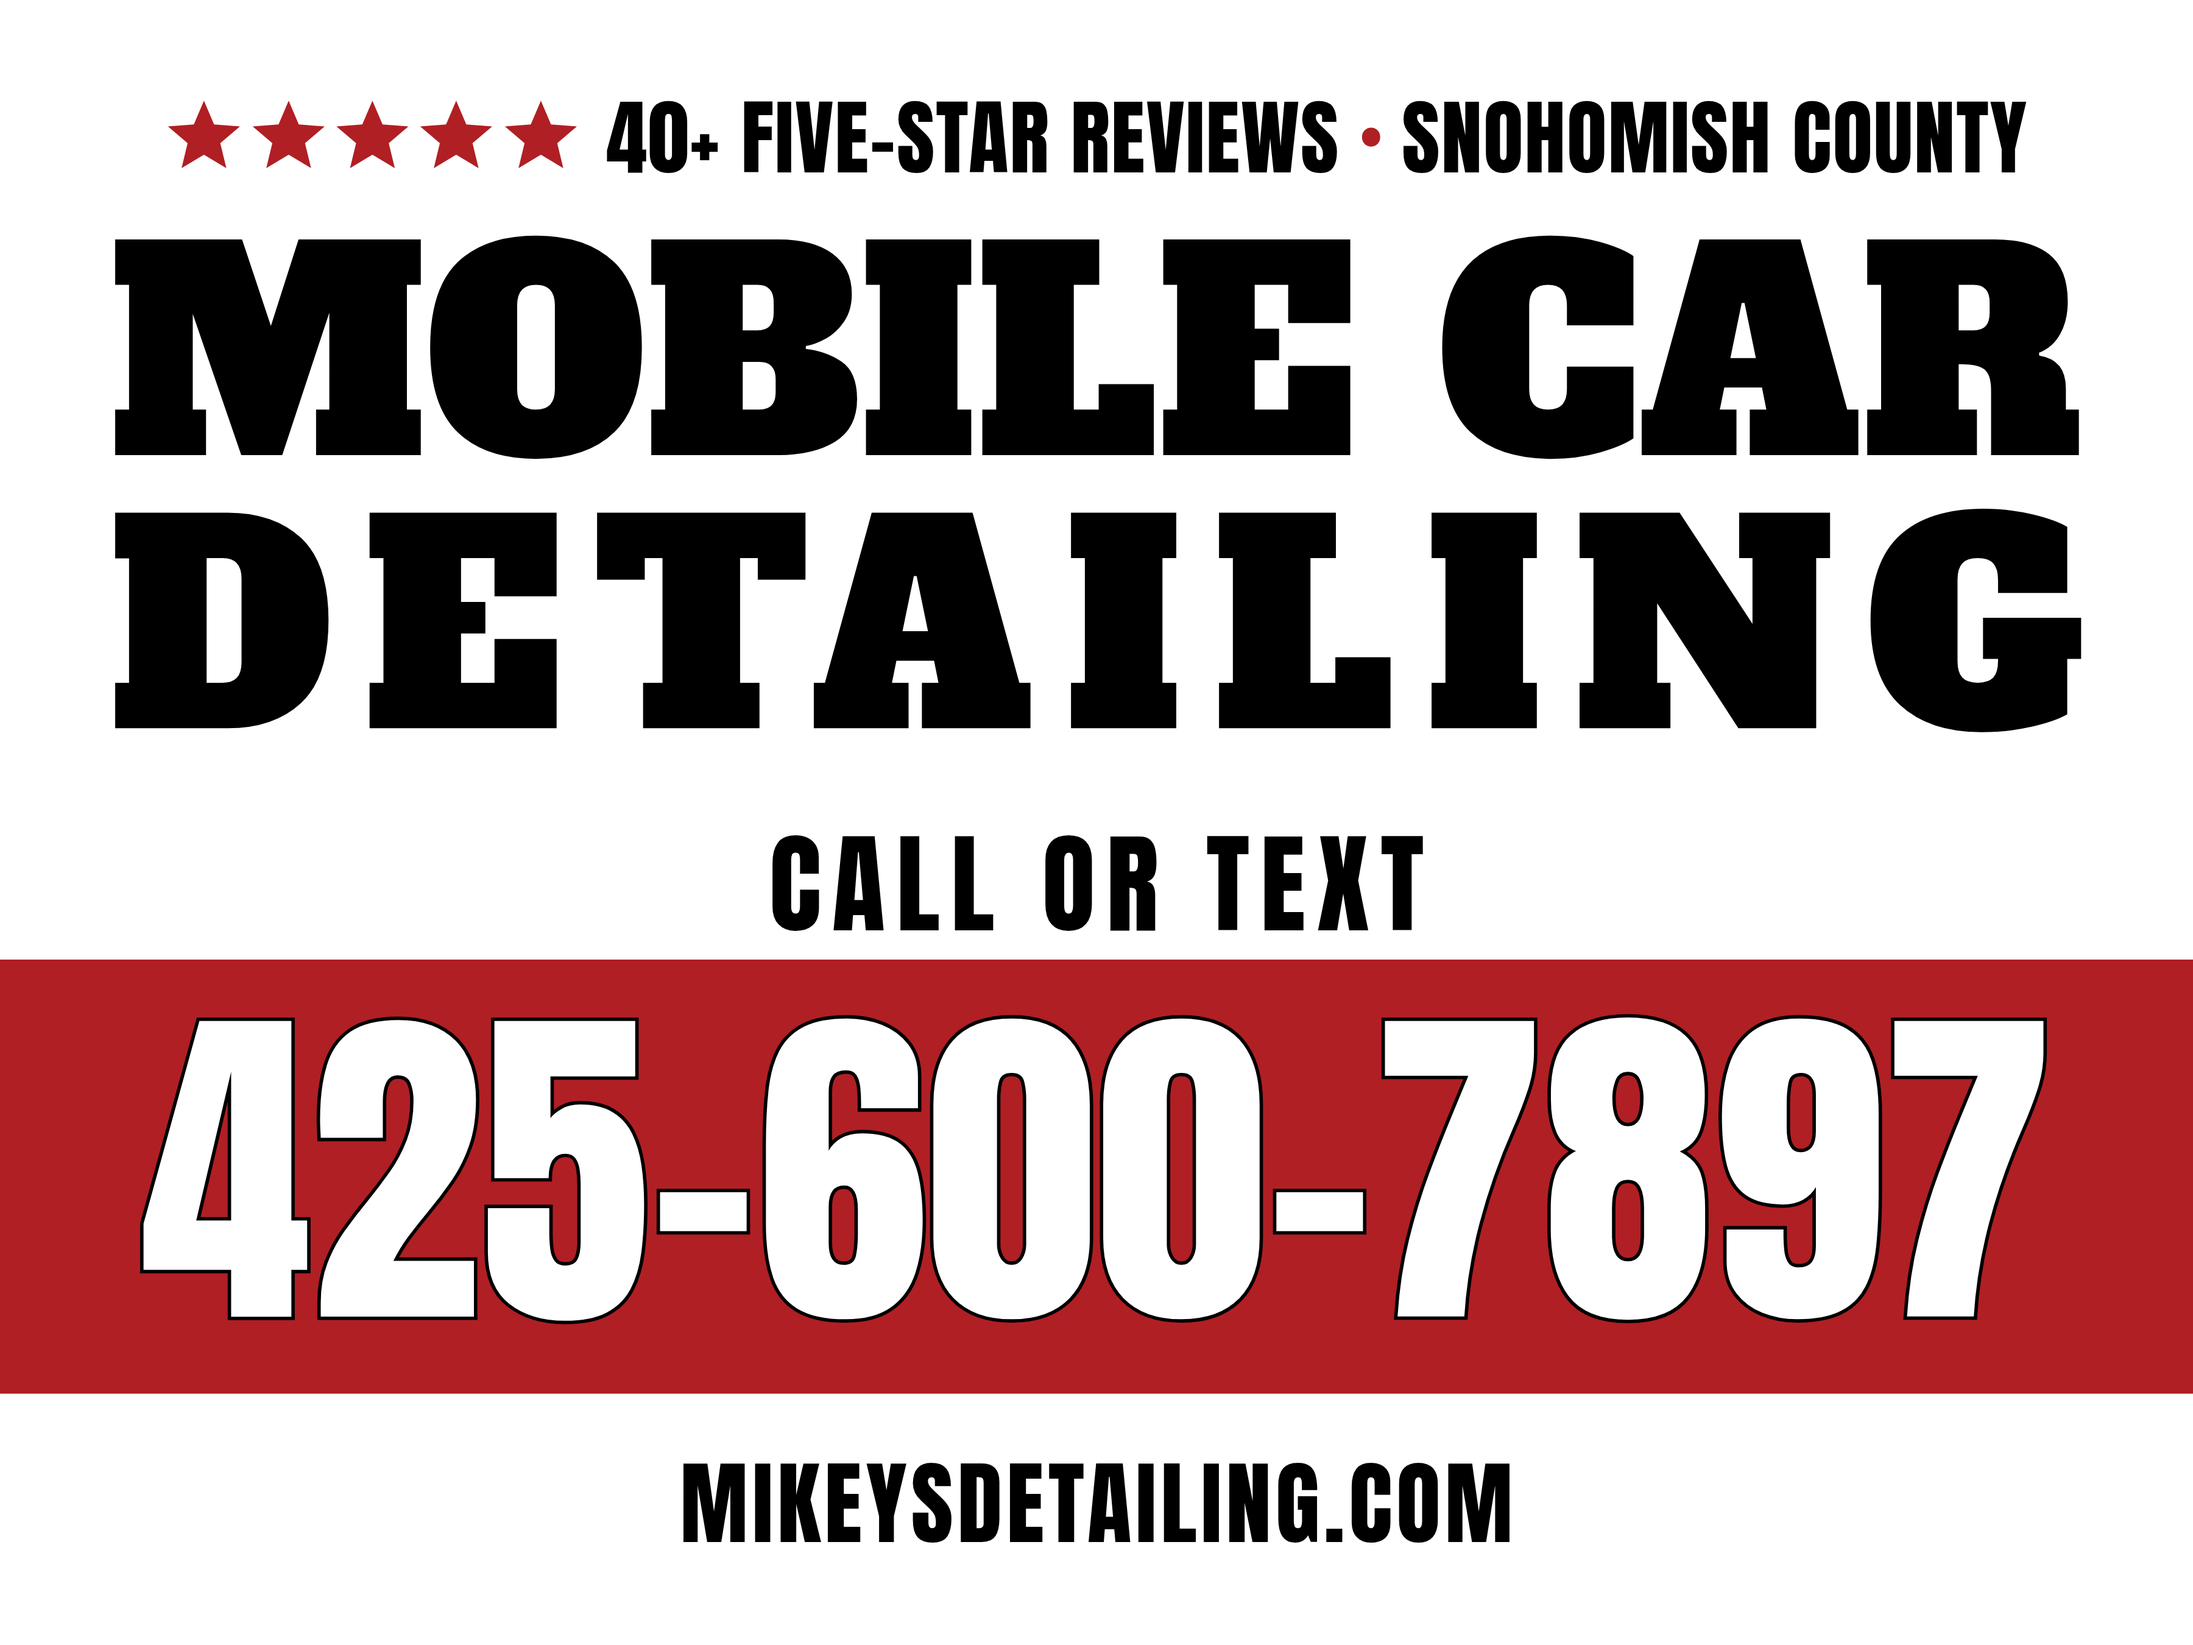
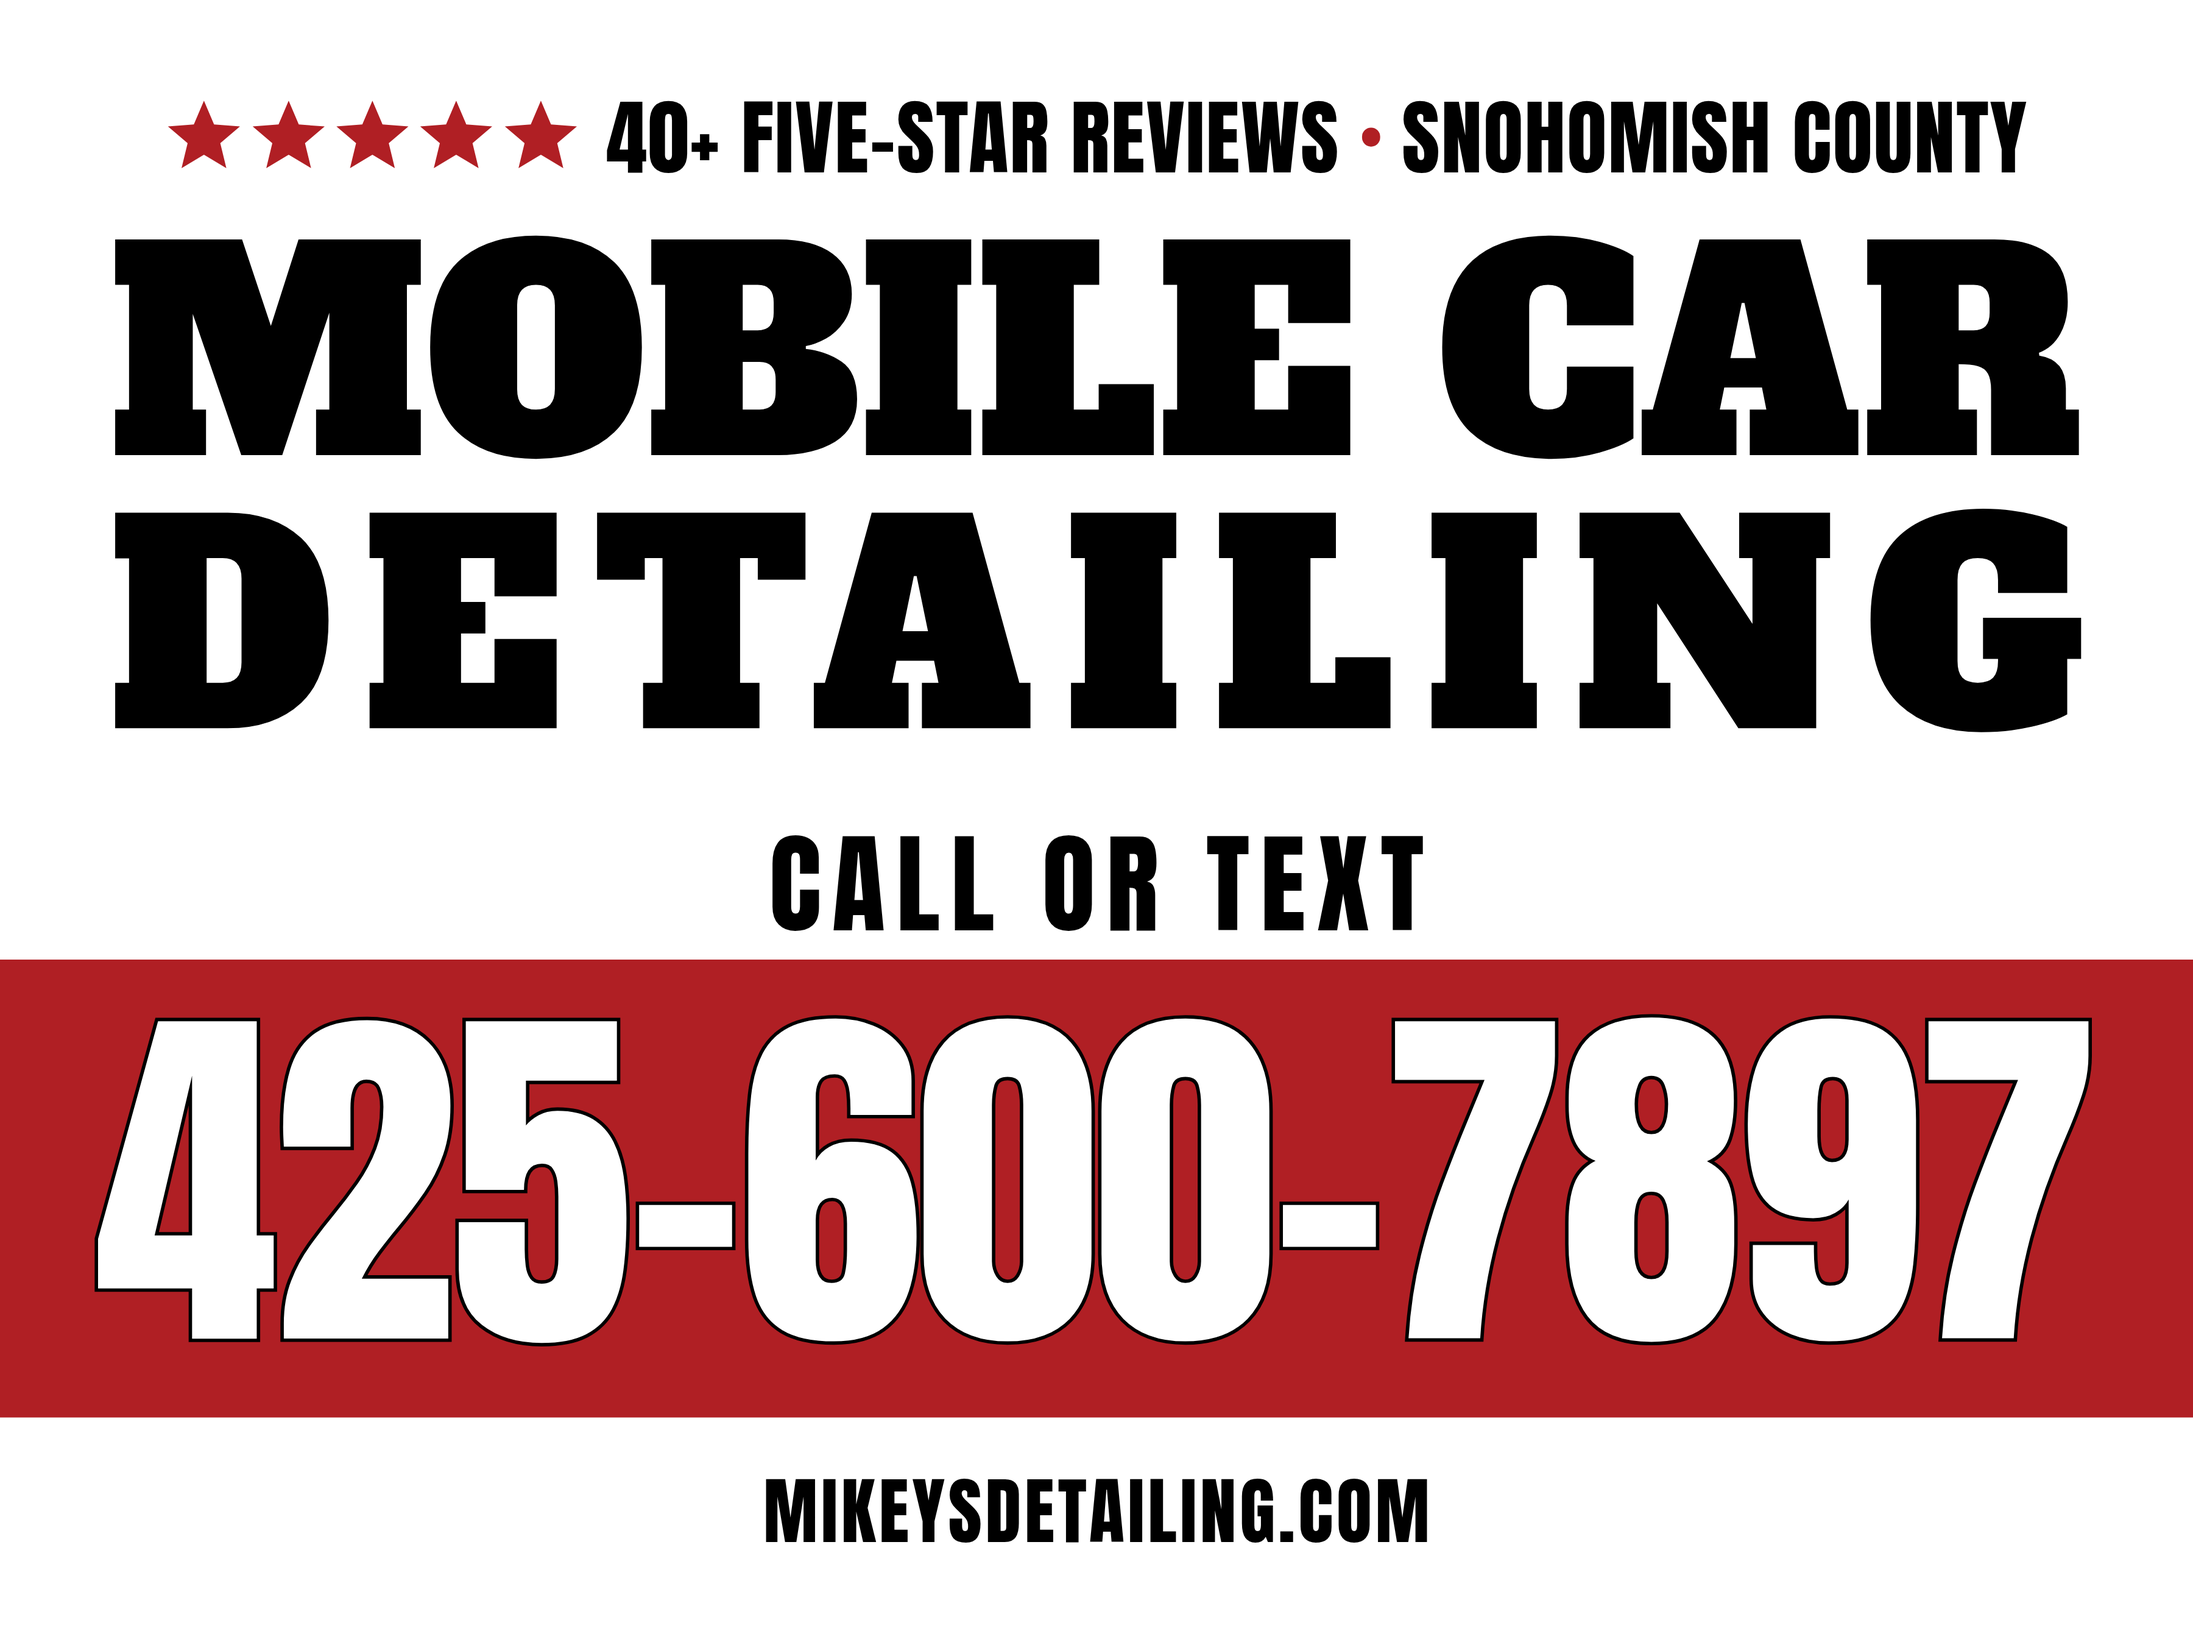
Enlarge yard sign phone number to the trim limit
The number is the sign's main response mechanism, so it now runs as wide
as the sign physically allows: 21.78in of ink, up from 20.92in, and from
20.85in on the previous sign. Digits are 7.3% taller.

Two changes get there. The number now extends to 1in from each edge,
which is the printer's own stated trim tolerance, and it carries slight
negative tracking that buys glyph height back out of the inter-digit
gaps. Verified against the rendered PDF: every mark that must survive
trimming clears all four edges by at least 1.04in.

The URL steps down to 0.8in so it reads as a secondary path rather than
competing with the number. It does not constrain the number's size,
which is set by the sign's width.

Claude-Session: https://claude.ai/code/session_013ASNFMMtqrVHcyBqv9PXkg

diff --git a/print/yard-sign/sign.html b/print/yard-sign/sign.html
@@ -57,9 +57,9 @@ body{background:#fff;-webkit-print-color-adjust:exact;print-color-adjust:exact;}
 
 /* ---- website ---- */
 .site{
-  margin-top:.70in;
+  margin-top:.64in;
   font-family:Anton,sans-serif;color:var(--ink);
-  font-size:1.00in;line-height:1;letter-spacing:.045em;text-indent:.045em;
+  font-size:.80in;line-height:1;letter-spacing:.045em;text-indent:.045em;
 }
 </style></head>
 <body>
@@ -147,8 +147,15 @@ async function fit(){
   // measured text; leave room for that half on each side.
   const phone = document.getElementById('phone');
   const STROKE = .075 * DPI;
-  const PHONE_W = 21.0 * DPI;
-  phone.style.fontSize = sizeFor('425-600-7897','Anton', PHONE_W - STROKE) + 'px';
+  const PHONE_W = 22.0 * DPI;       // 1in clear of each edge — the trim limit
+  const PHONE_T = -0.012;           // em; buys glyph height back off the gaps
+  const ptxt = '425-600-7897';
+  // width(size) = size*(natural/400) + (n-1)*size*TRACK, so solve for size
+  const per = measure(ptxt,'Anton',400,0)/400 + (ptxt.length-1)*PHONE_T;
+  const psize = (PHONE_W - STROKE) / per;
+  phone.style.fontSize = psize + 'px';
+  phone.style.letterSpacing = (psize*PHONE_T) + 'px';
+  phone.style.marginRight = (-psize*PHONE_T) + 'px';
 
   document.documentElement.setAttribute('data-fitted','1');
 }
